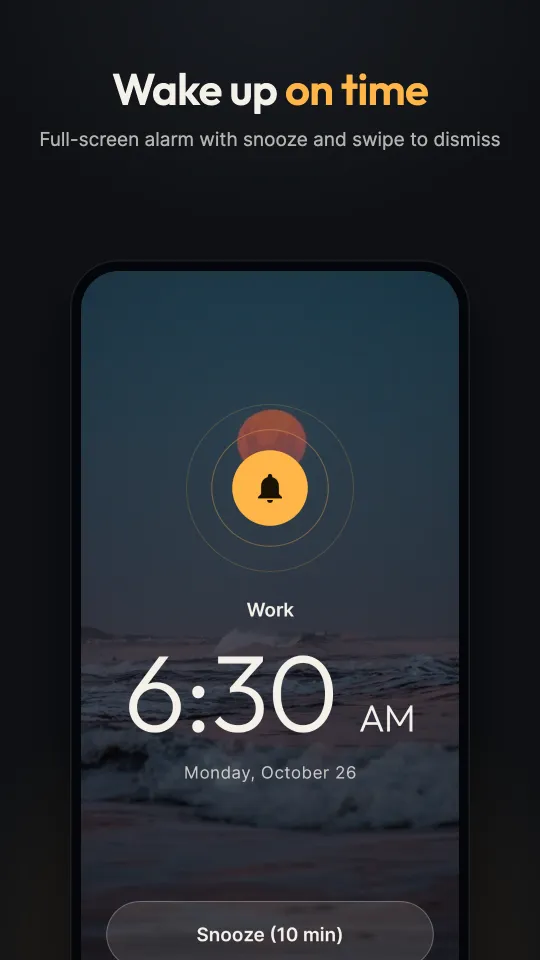
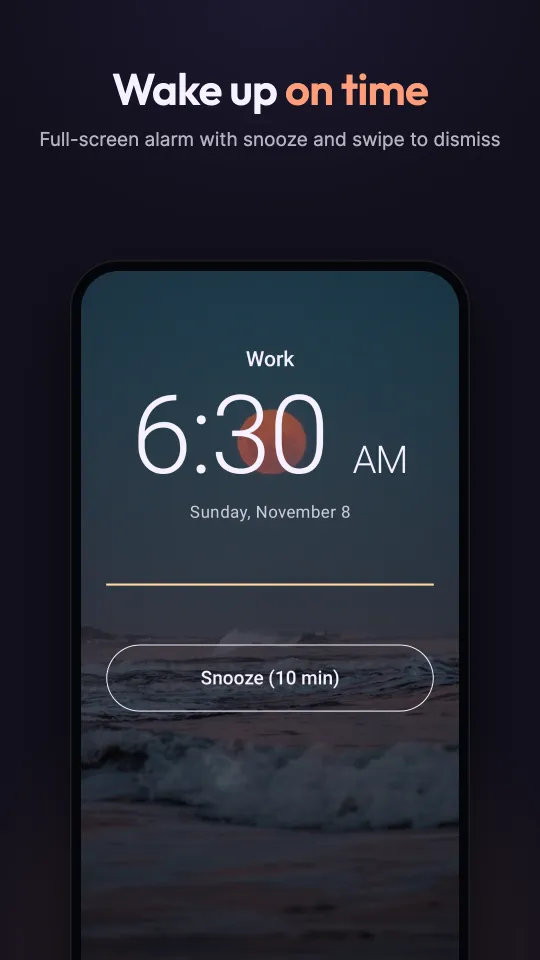
site: Simple Alarm 2.6.0 screenshots (tr/en, Ufuk redesign) and features (missions, wake-up check, snooze limit)

diff --git a/lang/tr/simple-alarm.php b/lang/tr/simple-alarm.php
@@ -22,7 +22,7 @@ return [
     'screens' => [
         ['Çalan alarm', 'Tam ekran alarm, ertele ve kaydırarak kapat', 'Tam ekran çalan alarm: deniz manzarası üzerinde 06:30 ve Ertele (10 dk) düğmesi'],
         ['Alarm listesi', 'Sıradaki alarmını ve çalmasına kalan süreyi gör', 'Alarm listesi: en üstte sonraki alarm 06:30 ve kalan süre, altında İş, Spor ve Hafta sonu alarmları'],
-        ['Alarm kurma', 'Hafta içi, her gün ya da bir kez, seçim senin', 'Alarmı düzenleme ekranı: saat seçici, tekrar günleri, alarm adı, ses ve ses düzeyi'],
+        ['Alarm kurma', 'Hafta içi, her gün ya da bir kez, seçim senin', 'Alarmı düzenleme ekranı: kaydırmalı saat seçici, tekrar günleri ve kod tarama, matematik, sallama, kod yazma uyanma görevleri'],
         ['Arka planlar', 'Çalan alarmın arkasına bir fotoğraf koy', 'Arka plan galerisi: seçili deniz fotoğrafı ve diğer fotoğraflar'],
         ['Sesler', '15 hazır ses veya kendi müziğin', 'Ses listesi: Acoustic seçili, altında diğer hazır sesler ve Tonlarım düğmesi'],
     ],

diff --git a/lang/en/simple-alarm.php b/lang/en/simple-alarm.php
@@ -22,7 +22,7 @@ return [
     'screens' => [
         ['Ringing alarm', 'Full-screen alarm with snooze and swipe to dismiss', 'Full-screen ringing alarm: 6:30 AM over a sea view with a Snooze (10 min) button'],
         ['Alarm list', 'See your next alarm and how long until it rings', 'Alarm list: the next alarm, 6:30 AM, with time left, then the Work, Gym and Weekend alarms'],
-        ['Setting an alarm', 'Weekdays, every day or once, it is up to you', 'Edit alarm screen: time picker, repeat days, alarm name, sound and volume'],
+        ['Setting an alarm', 'Weekdays, every day or once, it is up to you', 'Edit alarm screen: scrolling time wheel, repeat days and the scan code, math, shake and type code wake-up tasks'],
         ['Backgrounds', 'Choose a background for the alarm screen', 'Background gallery: a selected sea photograph among other photographs'],
         ['Sounds', '15 built-in tones or your own music', 'Sound list: Acoustic selected, the other built-in tones below and a My Tones button'],
     ],

diff --git a/config/apps.php b/config/apps.php
@@ -108,10 +108,10 @@ return [
         'tagline' => 'Sade, esnek ve kişiselleştirilebilir bir alarm uygulaması.',
         'description' => 'Simple Alarm, özelleştirilebilir arka planlar ve haftanın günlerine göre esnek programlarla sabahlarını kolaylaştırır.',
         'features' => [
-            'Özelleştirilebilir alarm arka planları',
-            'Haftanın günlerine göre esnek programlama',
-            'Kişisel uyanma melodileri',
-            'Sade, kullanıcı dostu arayüz',
+            'Uyanma görevleri: QR/barkod tarama, matematik, sallama, kod yazma',
+            'Uyanma kontrolü: cevap yoksa alarm yeniden çalar',
+            'Erteleme sınırı: 1, 2, 3 ya da sınırsız',
+            'Saniyeler içinde alarm: saati kaydır, günleri seç, bitti',
         ],
         'play_store' => 'https://play.google.com/store/apps/details?id=com.alarm.simple.clock',
         'privacy_url' => 'https://simple-alarm-79b72.web.app/privacy-policy',
